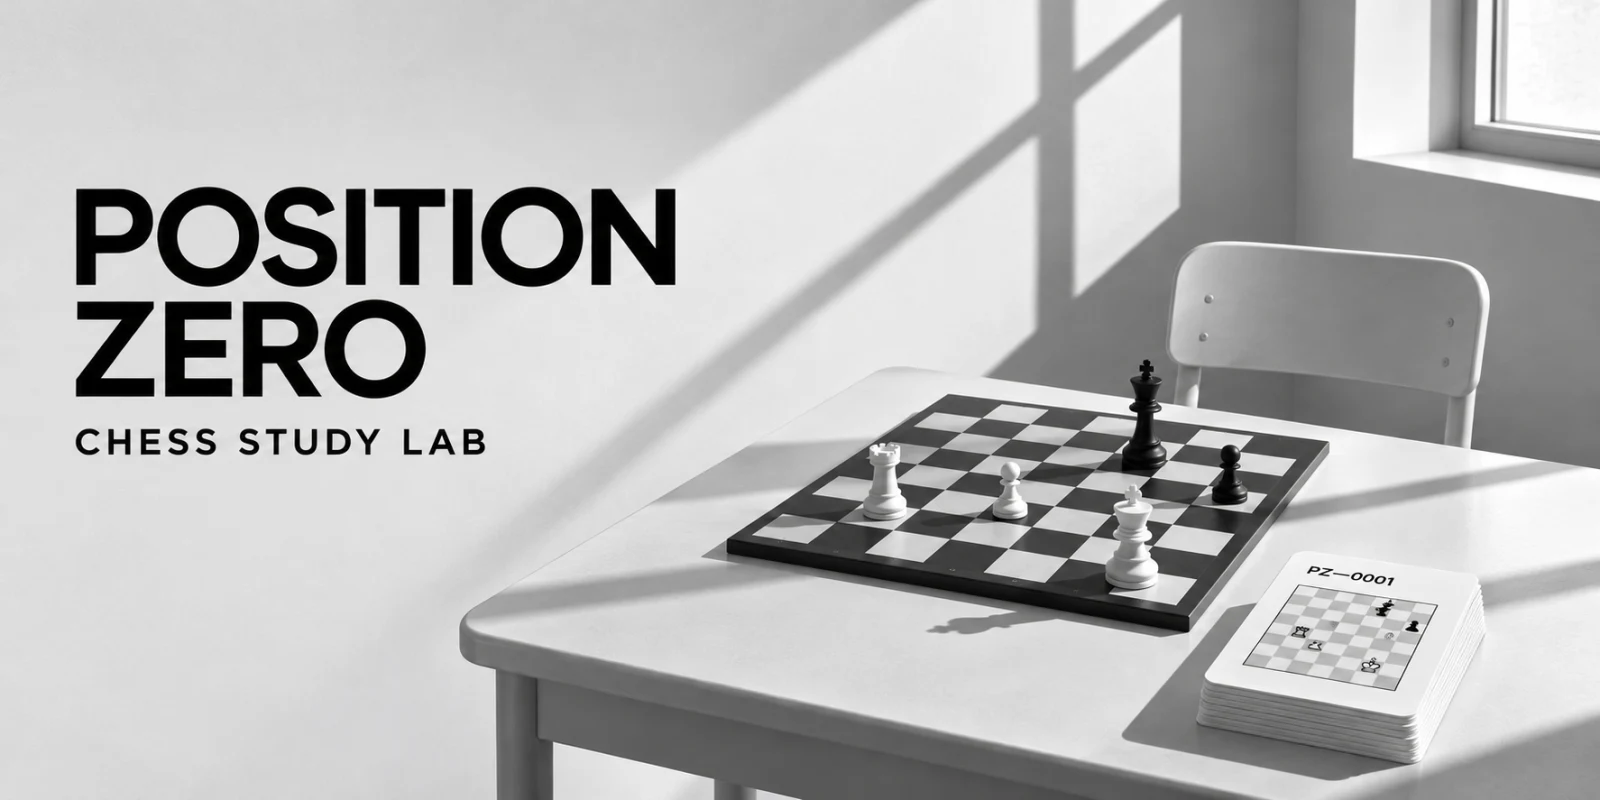
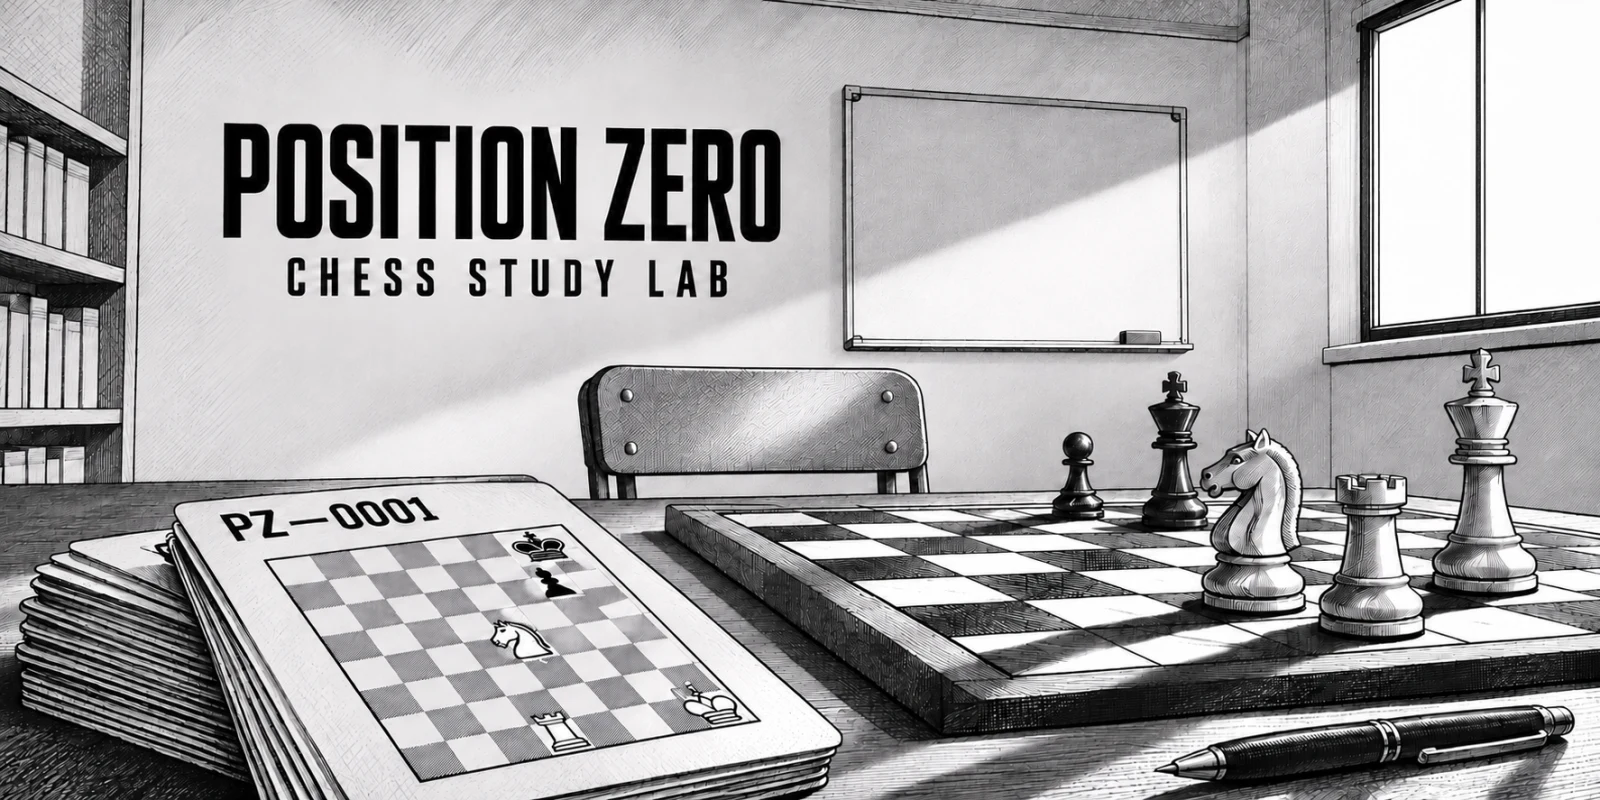
Use the ink classroom poster in both READMEs

diff --git a/README.zh-CN.md b/README.zh-CN.md
@@ -2,7 +2,7 @@
 
 [English](README.md) | [简体中文](README.zh-CN.md)
 
-![Position Zero 概念海报，黑白教室里的棋盘与 PZ—0001 编号训练卡](design/position-zero-poster.webp)
+![Position Zero 黑白漫画海报，双扇窗旁的棋盘和 PZ—0001 编号训练卡](design/position-zero-poster.webp)
 
 POSITION ZERO 是一款面向 Apple Silicon Mac 的本地优先国际象棋局面训练工具。它可以把棋谱、FEN 和棋盘截图整理为编号研究局面，并提供 Stockfish 分析、可验证的规则化讲解和主动回忆训练卡。
 

diff --git a/README.md b/README.md
@@ -2,7 +2,7 @@
 
 [English](README.md) | [简体中文](README.zh-CN.md)
 
-![Position Zero Chess Study Lab poster showing a chessboard and the PZ—0001 training card in a monochrome classroom](design/position-zero-poster.webp)
+![Position Zero Chess Study Lab in black-and-white ink, with a chessboard and the PZ—0001 training card beside a two-panel window](design/position-zero-poster.webp)
 
 POSITION ZERO is a local-first chess study app for Apple Silicon Macs. It turns
 games and screenshots into numbered studies with Stockfish analysis, verifiable
